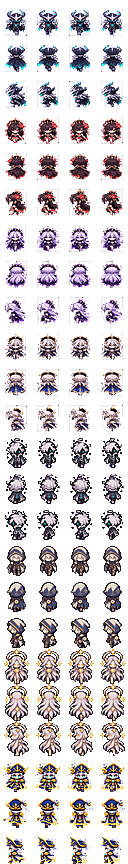
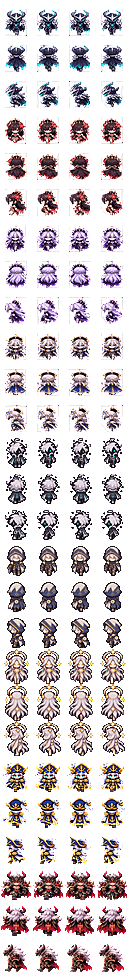
광전사 전설 스킨 '흑염 뿔의 광전사' (획득 방법 준비 중)
Claude-Session: https://claude.ai/code/session_01X4GXs6swjtgSkSe7EQABgB

diff --git a/js/data/heroes.js b/js/data/heroes.js
@@ -65,6 +65,7 @@ const SKINS = [
   { id: 'skin_leg_void', name: '공허의 마도사', hero: 'hero_mage', line: 'dark', sprite: 'leg_void', rarity: 'legendary', source: 'gacha', intro: '공허는 비어 있지 않아. 모든 것을 삼킬 뿐이지.', desc: '마법사 전설 외형 — 어둠을 휘감은 공허의 현자 (어둠 계열 전용)' },
   { id: 'skin_leg_star', name: '성역의 성자', hero: 'hero_priest', line: 'base', sprite: 'leg_star', rarity: 'legendary', source: 'gacha', intro: '별빛이 머무는 곳, 그곳이 저의 성역입니다.', desc: '사제 전설 외형 — 별빛 성역의 성자 (성역 계열 전용)' },
   { id: 'skin_leg_admiral', name: '천공함대 제독', hero: 'hero_gunner', line: 'demo', sprite: 'leg_admiral', rarity: 'legendary', source: 'soon', intro: '전 함대, 닻을 올려라. 하늘 아래 어디든, 포성이 길을 연다.', desc: '사수 전설 외형 — 날개 닻 문장 삼각모와 금빛 견장, 하늘을 나는 천공함대의 제독 (폭파 계열 전용) · 획득 방법 준비 중' }, // source 'soon': 뽑기·코드 어디에도 없음 (관리자만 확인용 보유)
+  { id: 'skin_leg_berserker', name: '흑염 뿔의 광전사', hero: 'hero_berserker', sprite: 'leg_berserker', rarity: 'legendary', source: 'soon', intro: '피가 끓는다. 이 분노가 다 타 버릴 때까지, 멈추지 않는다.', desc: '광전사 전설 외형 — 붉은 뿔 투구와 흑철 갑옷, 피빛 망토의 광전사 (전 계열) · 획득 방법 준비 중' },
   // ── 변신 드루이드 스킨: 평소 반디(앞/옆/뒤) ↔ 변신 시 샘(대기=22·공격=21, 좌우 반전만)
   { id: 'skin_bandi', name: '반디', hero: 'hero_druid', sprite: 'druid_bandi', rarity: 'legendary', source: 'code', druid: true, intro: '난 싸울 거야. 모든 것이 불타 버릴 때까지.', desc: '드루이드 변신 스킨 — 평소엔 반디, 변신하면 날개 돋친 샘으로 (선물 코드)' },
   // ── 일반·레어·에픽 스킨 (앞모습, 좌우 반전) — assets/commonskins.png · 퀄리티별 등급: 기존 1·2단계=레어, 3단계=에픽, 새 22종=일반
@@ -128,7 +129,7 @@ const DRUID_SKIN = { bandi_down: [0, 13, 32, 27], bandi_up: [33, 14, 22, 26], ba
 const BANDI_WALK = { bandi_down: [[81, 13, 32, 27], [114, 13, 32, 27]], bandi_up: [[147, 14, 22, 26], [170, 14, 22, 26]], bandi_side: [[193, 14, 24, 26], [218, 14, 24, 26]] };
 // 전설 스킨 시트 매핑: sprite 이름 → 스킨 번호. assets/legskins.png = 3열(걷기 프레임) × (스킨×3방향)행
 //  행 = 스킨*3 + 방향(0=앞/아래, 1=뒤/위, 2=옆) · 셀은 이미 인게임 크기로 구워둠(저해상도 청키) → 런타임은 1:1 drawImage
-const LEG_SKINS = { leg_abyss: 0, leg_crimson: 1, leg_void: 2, leg_star: 3, u_unrecorded: 4, u_first_explorer: 5, u_primordial: 6, leg_admiral: 7 }; // 4~6: 고유 스킨 (셀 32×36, 전설 22×27은 가운데·아래 맞춤)
+const LEG_SKINS = { leg_abyss: 0, leg_crimson: 1, leg_void: 2, leg_star: 3, u_unrecorded: 4, u_first_explorer: 5, u_primordial: 6, leg_admiral: 7, leg_berserker: 8 }; // 4~6: 고유 스킨 (셀 32×36, 전설 22×27은 가운데·아래 맞춤)
 const LEG_SHEET = { cellW: 32, cellH: 36, frames: 4, dirs: 3 }; // 열 0~2: 걷기, 열 3: 정지(옆은 다리 모음)
 // 선물 코드: 글자 그대로 두지 않고 해시로만 보관 (giftHash) — 코드 하나에 보상 하나, 계정마다 한 번
 const GIFT_CODES = [

diff --git a/js/ui/hud.js b/js/ui/hud.js
@@ -823,7 +823,7 @@ class HUD {
   static legIntroEnd(K) { return K && K.intro ? 1.8 + K.intro.length / 16 + 0.4 : 2.6; } // 대사가 다 나올 때까지
   static legendIntro(ctx, game) {
     const L = game.legendIntro, K = L.K, t = (performance.now() - L.start) / 1000, W = VIEW_W, H = VIEW_H, cx = W / 2, cy = H / 2;
-    const col = { skin_leg_abyss: '#5ae0ff', skin_leg_crimson: '#ff4a5a', skin_leg_void: '#b07aff', skin_leg_star: '#ffe08a', skin_leg_admiral: '#f0c050', skin_bandi: '#9ae8ff', skin_u_unrecorded: '#48eaff', skin_u_first_explorer: '#e0b058', skin_u_primordial: '#f0c8ff' }[K.id] || '#ffd84a', uni = K.rarity === 'unique';
+    const col = { skin_leg_abyss: '#5ae0ff', skin_leg_crimson: '#ff4a5a', skin_leg_void: '#b07aff', skin_leg_star: '#ffe08a', skin_leg_admiral: '#f0c050', skin_leg_berserker: '#ff4a4a', skin_bandi: '#9ae8ff', skin_u_unrecorded: '#48eaff', skin_u_first_explorer: '#e0b058', skin_u_primordial: '#f0c8ff' }[K.id] || '#ffd84a', uni = K.rarity === 'unique';
     const ease = (x) => 1 - Math.pow(1 - Math.max(0, Math.min(1, x)), 3); let im = null;
     ctx.save();
     ctx.fillStyle = '#05040a'; ctx.fillRect(0, 0, W, H);

diff --git a/CHANGELOG.md b/CHANGELOG.md
@@ -1,3 +1,8 @@
+## 광전사 전설 스킨 '흑염 뿔의 광전사'
+- 사용자가 준 4방향 도트(앞·옆·뒤 × 서기/걷기 3)를 전설 스킨 시트(assets/legskins.png 9번째)에 인게임 크기로 구움 (검은 갑옷이 배경으로 지워지지 않게 배경 판정을 좁힘)
+- 광전사 전 계열 · 걷기 3프레임 + 정지 · 방향별 무기 드는 법 적용
+- 아직 얻는 방법 없음: 뽑기·선물 코드에 넣지 않음 (스킨창 '획득 방법 준비 중', 관리자만 확인용으로 보유)
+
 ## 고유 스킨은 얻기 전까지 숨김
 - 스킨창에서 고유 스킨(미기록자 · 최초의 탐험가 · 시원체)은 보유하기 전엔 목록에 나오지 않음 (얻으면 그 직업 페이지에 나타남)
 
